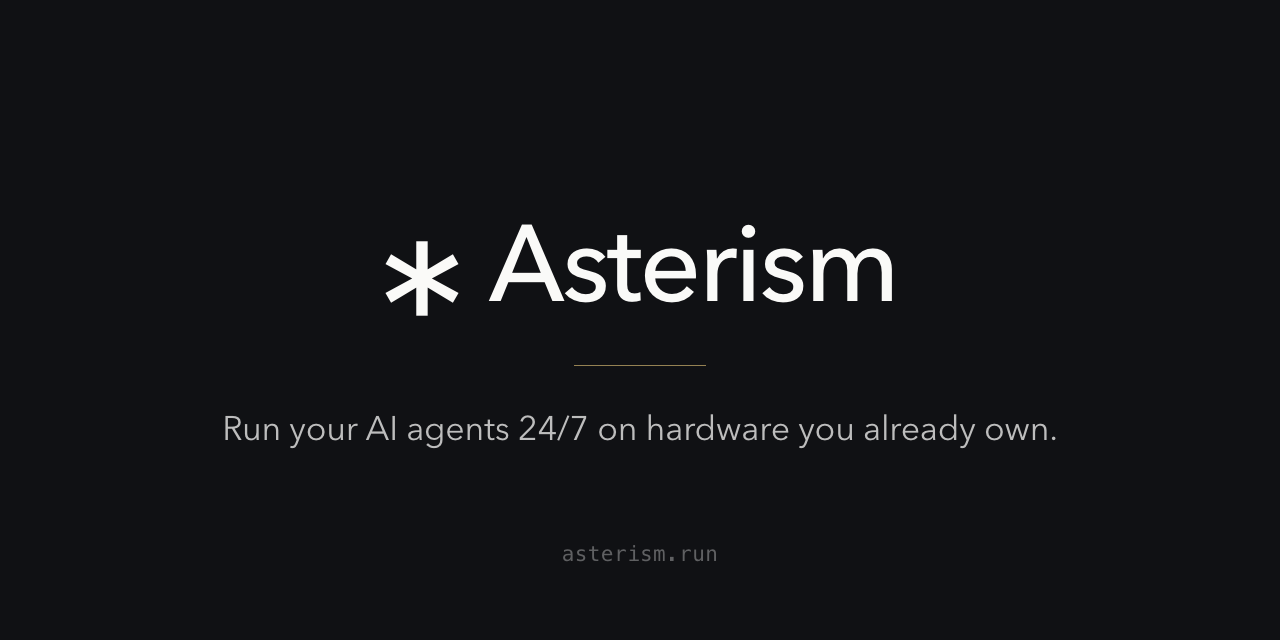
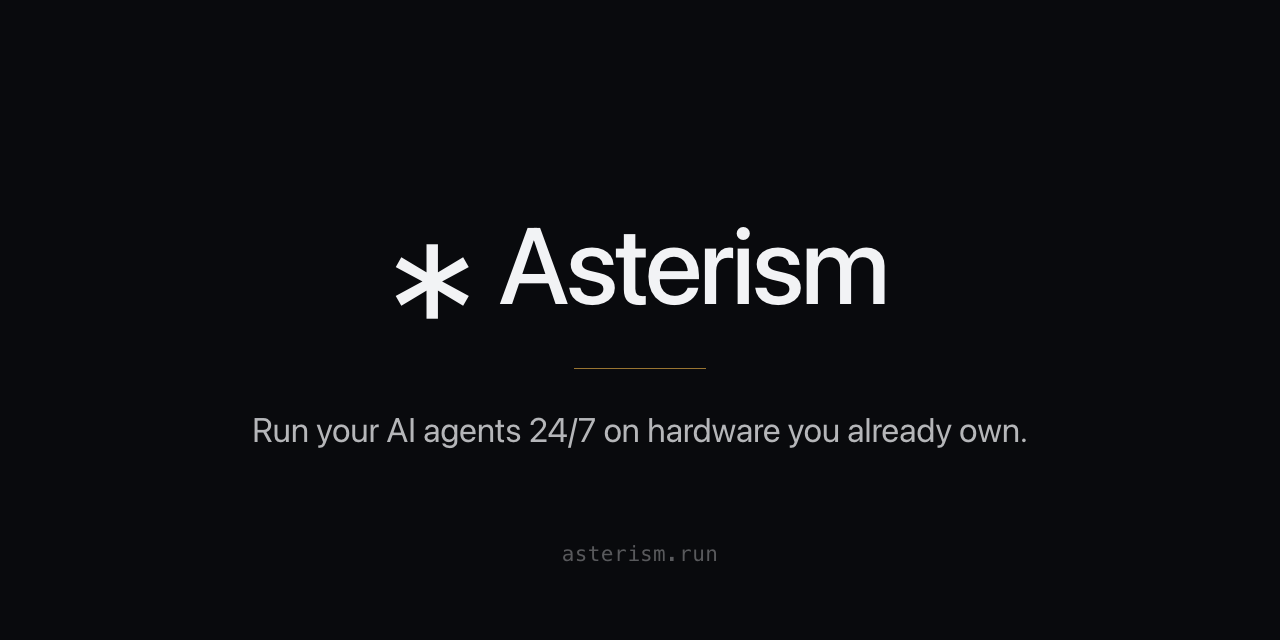
docs: sync public brand copy and colors (as-15x)

Changed region(s): [[0.2812, 0.3438, 0.7188, 0.5], [0.1562, 0.625, 0.8125, 0.7188]]

diff --git a/assets/social-preview.html b/assets/social-preview.html
@@ -1,17 +1,22 @@
 <!doctype html>
 <meta charset="utf-8">
 <style>
+  :root {
+    --asterism-canvas: #090A0D;
+    --asterism-ink: #F2F3F5;
+    --asterism-amber: #F2B84B;
+  }
   html, body { margin: 0; padding: 0; }
   body {
     width: 1280px; height: 640px;
-    background: #101114;
+    background: var(--asterism-canvas);
     display: flex; flex-direction: column;
     align-items: center; justify-content: center;
     -webkit-font-smoothing: antialiased;
   }
   .mark {
     display: flex; align-items: baseline; gap: 26px;
-    color: #FAFAF8;
+    color: var(--asterism-ink);
   }
   .star {
     font-family: Menlo, monospace;
@@ -20,26 +25,26 @@
     position: relative; top: 18px;
   }
   .word {
-    font-family: "Avenir Next", Avenir, sans-serif;
+    font-family: system-ui, ui-sans-serif, -apple-system, "Segoe UI", sans-serif;
     font-size: 108px; font-weight: 500;
     letter-spacing: -3px; line-height: 1;
   }
   .rule {
     width: 132px; height: 1px;
-    background: rgba(231, 200, 122, 0.62);
+    background: rgba(242, 184, 75, 0.62);
     margin: 44px 0 40px;
   }
   .pitch {
-    font-family: "Avenir Next", Avenir, sans-serif;
+    font-family: system-ui, ui-sans-serif, -apple-system, "Segoe UI", sans-serif;
     font-size: 34px; font-weight: 400;
     letter-spacing: -0.2px;
-    color: rgba(250, 250, 248, 0.74);
+    color: rgba(242, 243, 245, 0.74);
   }
   .foot {
     position: absolute; bottom: 74px;
     font-family: ui-monospace, SFMono-Regular, Menlo, monospace;
     font-size: 21px; letter-spacing: 0.4px;
-    color: rgba(250, 250, 248, 0.34);
+    color: rgba(242, 243, 245, 0.34);
   }
 </style>
 <div class="mark"><span class="star">*</span><span class="word">Asterism</span></div>

diff --git a/README.md b/README.md
@@ -8,9 +8,15 @@
 <p align="center"><b>Run your AI agents 24/7 on hardware you already own.</b></p>
 
 <p align="center">
+  Everything your agent needs, made local.<br>
+  Assemble compute, storage, GPUs, routes, and secrets from wherever they live.<br>
+  Keep your agent running 24/7.
+</p>
+
+<p align="center">
   <a href="https://github.com/medicalissue/asterism/actions/workflows/ci.yml"><img src="https://github.com/medicalissue/asterism/actions/workflows/ci.yml/badge.svg" alt="CI"></a>
   <a href="LICENSE-MIT"><img src="https://img.shields.io/badge/license-MIT%20OR%20Apache--2.0-1a7f37" alt="License: MIT OR Apache-2.0"></a>
-  <a href="https://asterism.run"><img src="https://img.shields.io/badge/web-asterism.run-101114" alt="asterism.run"></a>
+  <a href="https://asterism.run"><img src="https://img.shields.io/badge/web-asterism.run-090A0D" alt="asterism.run"></a>
 </p>
 
 <p align="center">
@@ -18,11 +24,15 @@
        alt="Terminal session: ast create agent --image debian:13, ast up agent, ast ssh agent -- uname -a printing the guest kernel, ast down agent, ast snapshot agent clean, ast ls.">
 </p>
 
-Asterism turns a set of devices into an **orbit**: one computer whose CPU,
-memory, storage, secrets, and network reach can come from different places.
-It runs persistent agents in real VMs, keeps each guest isolated behind its
-own kernel and disk, and lets you operate every instance by name from any
-device in the orbit.
+Asterism assembles compute, storage, GPUs, routes, and secrets from wherever
+they live, then keeps your agent running 24/7. The `ast` CLI drives a local
+`astd` daemon and boots isolated instances from cloud or OCI images.
+
+A set of devices becomes an **orbit**: one computer whose CPU, memory, storage,
+secrets, and network reach can come from different places. Asterism runs
+persistent agents in real VMs, keeps each guest isolated behind its own kernel
+and disk, and lets you operate every instance by name from any device in the
+orbit.
 
 No Asterism account or hosted control plane is required. Devices pair
 directly, trust device keys, and communicate over an authenticated, encrypted
@@ -34,18 +44,18 @@ mesh.
 $ curl -fsSL https://asterism.run/install.sh | sh
 ```
 
-The installer selects one tagged release, verifies it against the
-`SHA256SUMS` published with that release, and puts `ast` and `astd` in
-`~/.local/bin`. Re-run it to upgrade or pass `--uninstall` to remove the
-installed files. Release binaries currently target macOS on Apple silicon;
-other hosts can build from source:
+The script chooses the available path for this machine. On macOS it installs
+through Homebrew. On Linux it builds from source into `~/.local/bin`; that path
+is experimental. The script prints every privileged command and waits for
+confirmation. It does not install Homebrew or Rust.
 
 ```console
-$ curl -fsSL https://asterism.run/install.sh | ASTERISM_METHOD=source sh
+$ brew install --HEAD medicalissue/asterism/asterism
 ```
 
-See [packaging/README.md](packaging/README.md) for version pinning, alternate
-prefixes, source refs, Homebrew, and update verification.
+See the [platform-aware install guide](https://asterism.run/install) for the
+current path and [packaging/README.md](packaging/README.md) for version pinning,
+alternate prefixes, source refs, Homebrew, and update verification.
 
 ## Start an agent
 
@@ -122,9 +132,14 @@ not for reaching an instance.
 
 ## Assemble instances from parts
 
-An instance is a stable name and identity plus the parts it uses. `ast status`
-shows where those parts come from. Software inside the guest sees ordinary
-local resources even when Asterism carries their operations across the mesh.
+A device contributes parts. An orbit is the trusted pool of those devices. An
+instance keeps the durable identity assembled from those parts, without a
+special source device. CPU, root disk, and remote block volumes work today;
+GPU and custom egress remain planned.
+
+`ast status` shows where an instance's parts come from. Software inside the
+guest sees ordinary local resources even when Asterism carries their
+operations across the mesh.
 
 - **CPU and memory** come from one device. Move them offline without changing
   the instance's name or identity; its root disk and snapshots transfer
